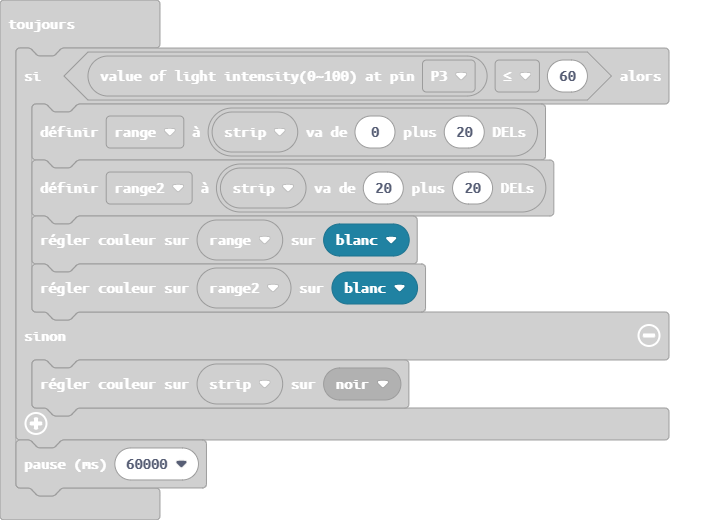
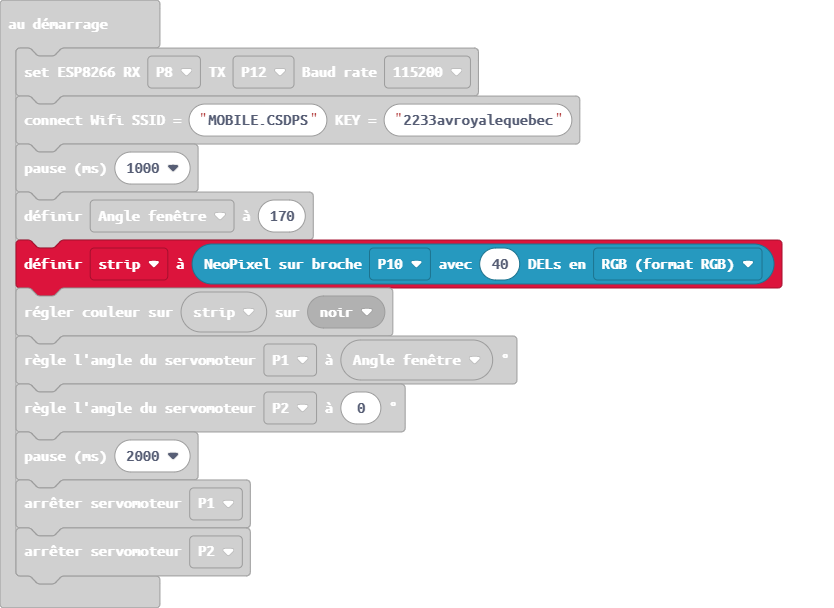
Mise à jour main.blocks, main.ts

diff --git a/main.ts b/main.ts
@@ -16,7 +16,7 @@ ESP8266_IoT.initWIFI(SerialPin.P8, SerialPin.P12, BaudRate.BaudRate115200)
 ESP8266_IoT.connectWifi("MOBILE.CSDPS", "2233avroyalequebec")
 basic.pause(1000)
 let Angle_fenêtre = 170
-let strip = neopixel.create(DigitalPin.P13, 40, NeoPixelMode.RGB)
+let strip = neopixel.create(DigitalPin.P10, 40, NeoPixelMode.RGB)
 strip.showColor(neopixel.colors(NeoPixelColors.Black))
 servos.P1.setAngle(Angle_fenêtre)
 servos.P2.setAngle(0)
